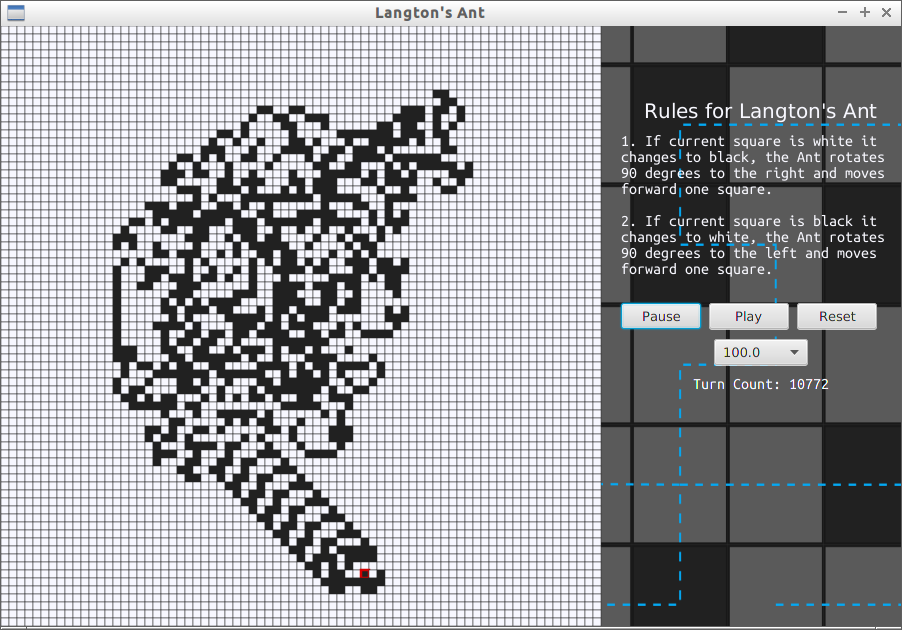
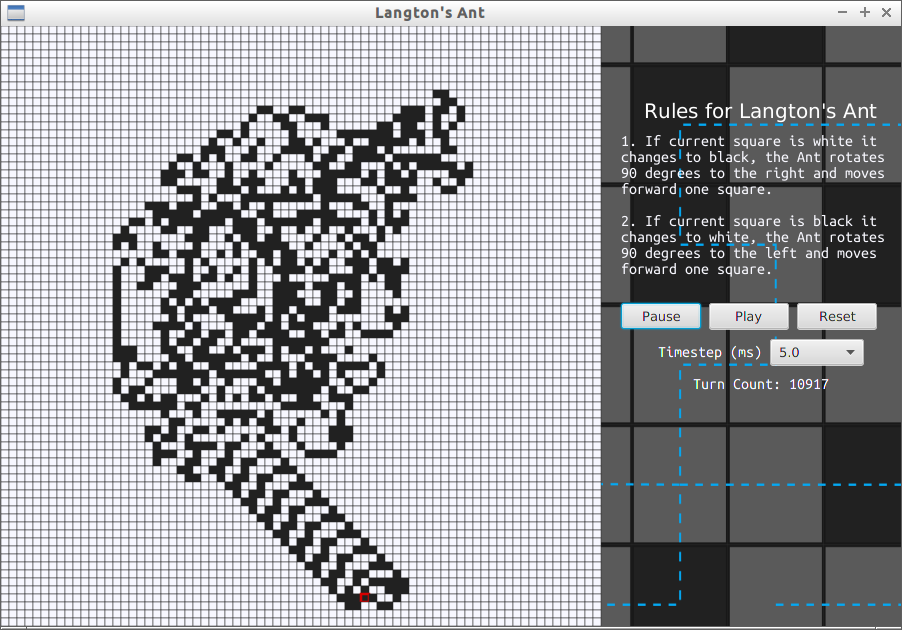
Added timestep label.

Changed region(s): [[0.714, 0.5127, 0.9623, 0.6333], [0.3415, 0.8444, 0.4656, 0.9651]]

diff --git a/src/application/MakeUI.java b/src/application/MakeUI.java
@@ -13,6 +13,7 @@ import javafx.scene.image.Image;
 import javafx.scene.image.ImageView;
 import javafx.scene.layout.HBox;
 import javafx.scene.layout.VBox;
+import javafx.scene.paint.Color;
 import javafx.scene.text.Text;
 
 public class MakeUI {
@@ -38,7 +39,7 @@ public class MakeUI {
         // Add Rules
 		Text rulesTitle = new Text(RULESTITLE);
 		rulesTitle.setFont(TITLEFONT);
-		rulesTitle.setFill(WHITE);
+		rulesTitle.setFill(Color.WHITE);
 		Text rules = new Text("1. If current square is white it changes to black, the Ant rotates"
 				+ " 90 degrees to the right and moves forward one square. \n \n"
 				+ "2. If current square is black it changes to white, the Ant rotates"
@@ -73,22 +74,32 @@ public class MakeUI {
         	        1000.0
         	    );
     	timeStep = new ComboBox<Double>(options);
-    	timeStep.setPromptText("timestep (ms)");
+    	Label ts = new Label("Timestep (ms)");
+    	ts.setFont(MAINFONT);
+		ts.setTextFill(WHITE);
+
 
     	// HBox containing buttons
-        HBox hbox = new HBox(8);
-        hbox.getChildren().addAll(
+        HBox buttons = new HBox(8);
+        buttons.getChildren().addAll(
         		pause,
         		play,
         		reset);
+
+        // HBox containing combobox and text
+        HBox tStep = new HBox(8);
+        tStep.setAlignment(Pos.CENTER);
+        tStep.getChildren().addAll(
+        		ts,
+        		timeStep);
 
         // VBox containing text and buttons
         vbox = new VBox(10);
         vbox.getChildren().addAll(
         		rulesTitle,
         		rules,
-        		hbox,
-        		timeStep,
+        		buttons,
+        		tStep,
         		turnLabel);
         vbox.setAlignment(Pos.CENTER);
         vbox.setLayoutX(620);
